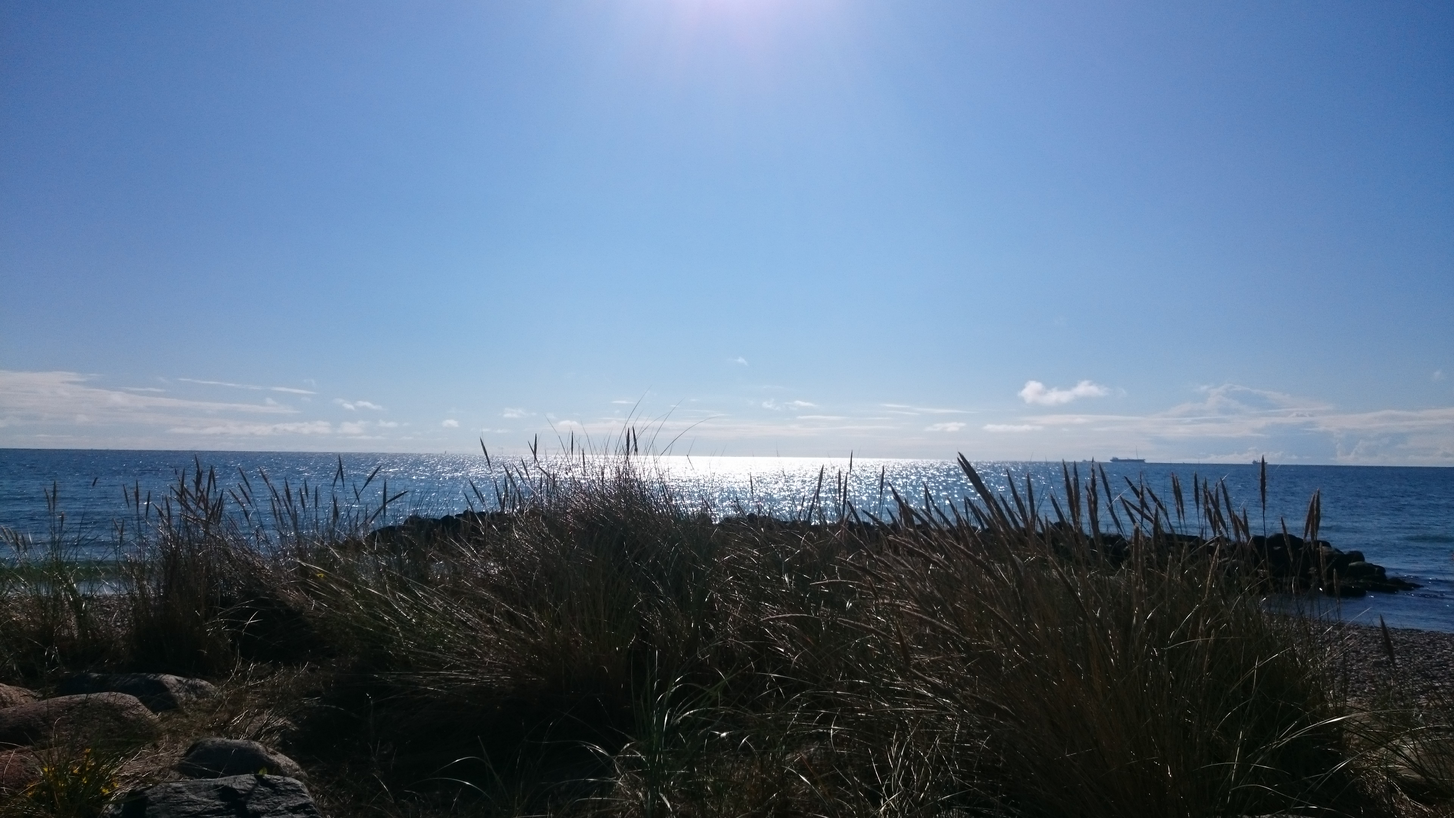
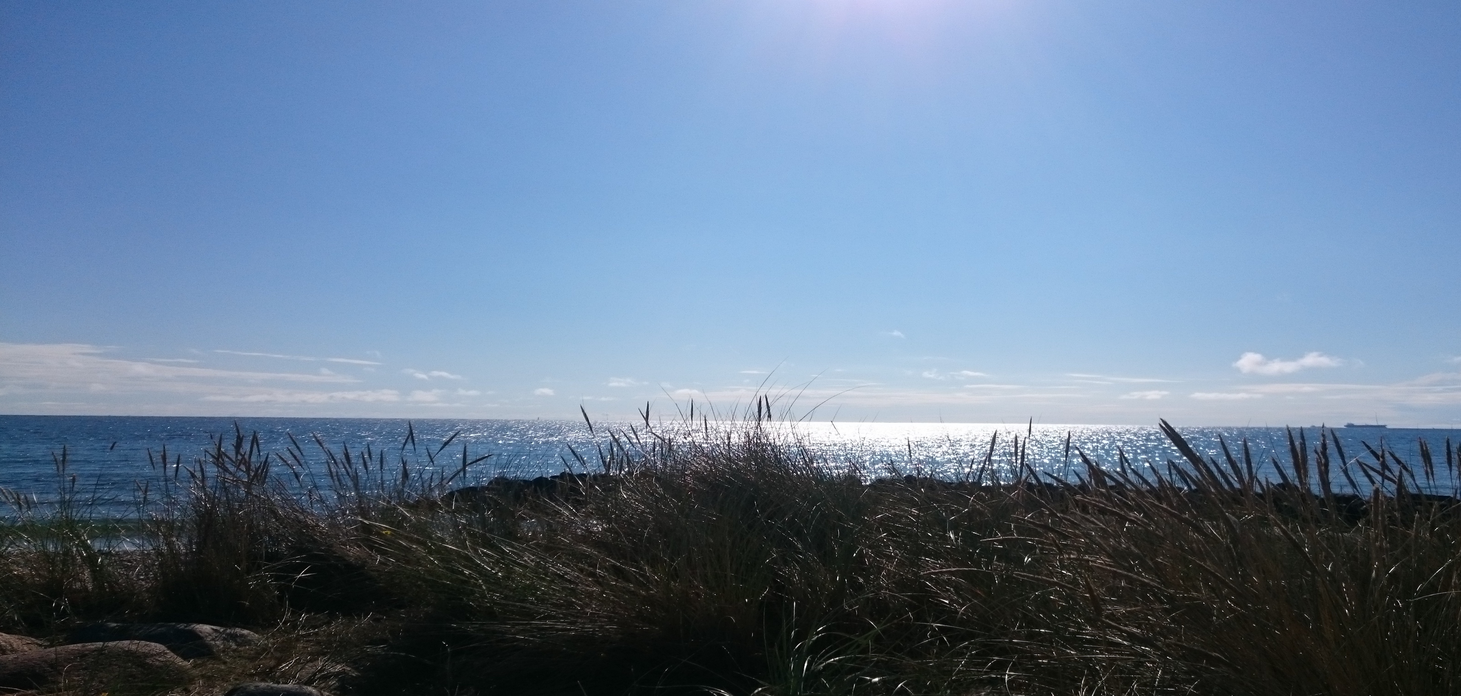
Fixed Header over image and image sizes fixed #1

diff --git a/public/css/styles.css b/public/css/styles.css
@@ -474,6 +474,11 @@ mark,
   content: "— ";
 }
 
+.imageBox {
+  max-width: 100%;
+  height: 2000px;
+}
+
 .img-fluid {
   max-width: 100%;
   height: auto;
@@ -539,6 +544,12 @@ pre code {
   max-height: 340px;
   overflow-y: scroll;
 }
+
+.headerContainer {
+  text-align: center;
+  position: relative;
+}
+
 
 .container,
 .container-fluid,
@@ -10130,6 +10141,10 @@ header.masthead {
 }
 header.masthead .masthead-subheading {
   font-size: 1.5rem;
+  position: absolute;
+  top: 30%;
+  left: 50%;
+  transform: translate(-50%, -50%);
   font-style: italic;
   line-height: 1.5rem;
   margin-bottom: 25px;
@@ -10137,6 +10152,10 @@ header.masthead .masthead-subheading {
 }
 header.masthead .masthead-heading {
   font-size: 3.25rem;
+  position: absolute;
+  top: 45%;
+  left: 50%;
+  transform: translate(-50%, -50%);
   font-weight: 700;
   line-height: 3.25rem;
   margin-bottom: 2rem;

diff --git a/src/components/Common/Header.js b/src/components/Common/Header.js
@@ -8,8 +8,8 @@ class Header extends Component {
         return(
             /* <!-- Masthead--> */
             <header className="masthead" >       
-                <img src={this.props.image} alt="Girl in a jacket"  className="img-fluid"/> 
-                 <div className="container">
+                <div className="headerContainer">
+                    <img src={this.props.image} alt="header"  className="img-fluid imageBox"/> 
                     <div className="masthead-subheading">{this.props.title}</div>
                     <div className="masthead-heading text-uppercase">{this.props.subtitle}</div>
                     {this.props.showButton &&
